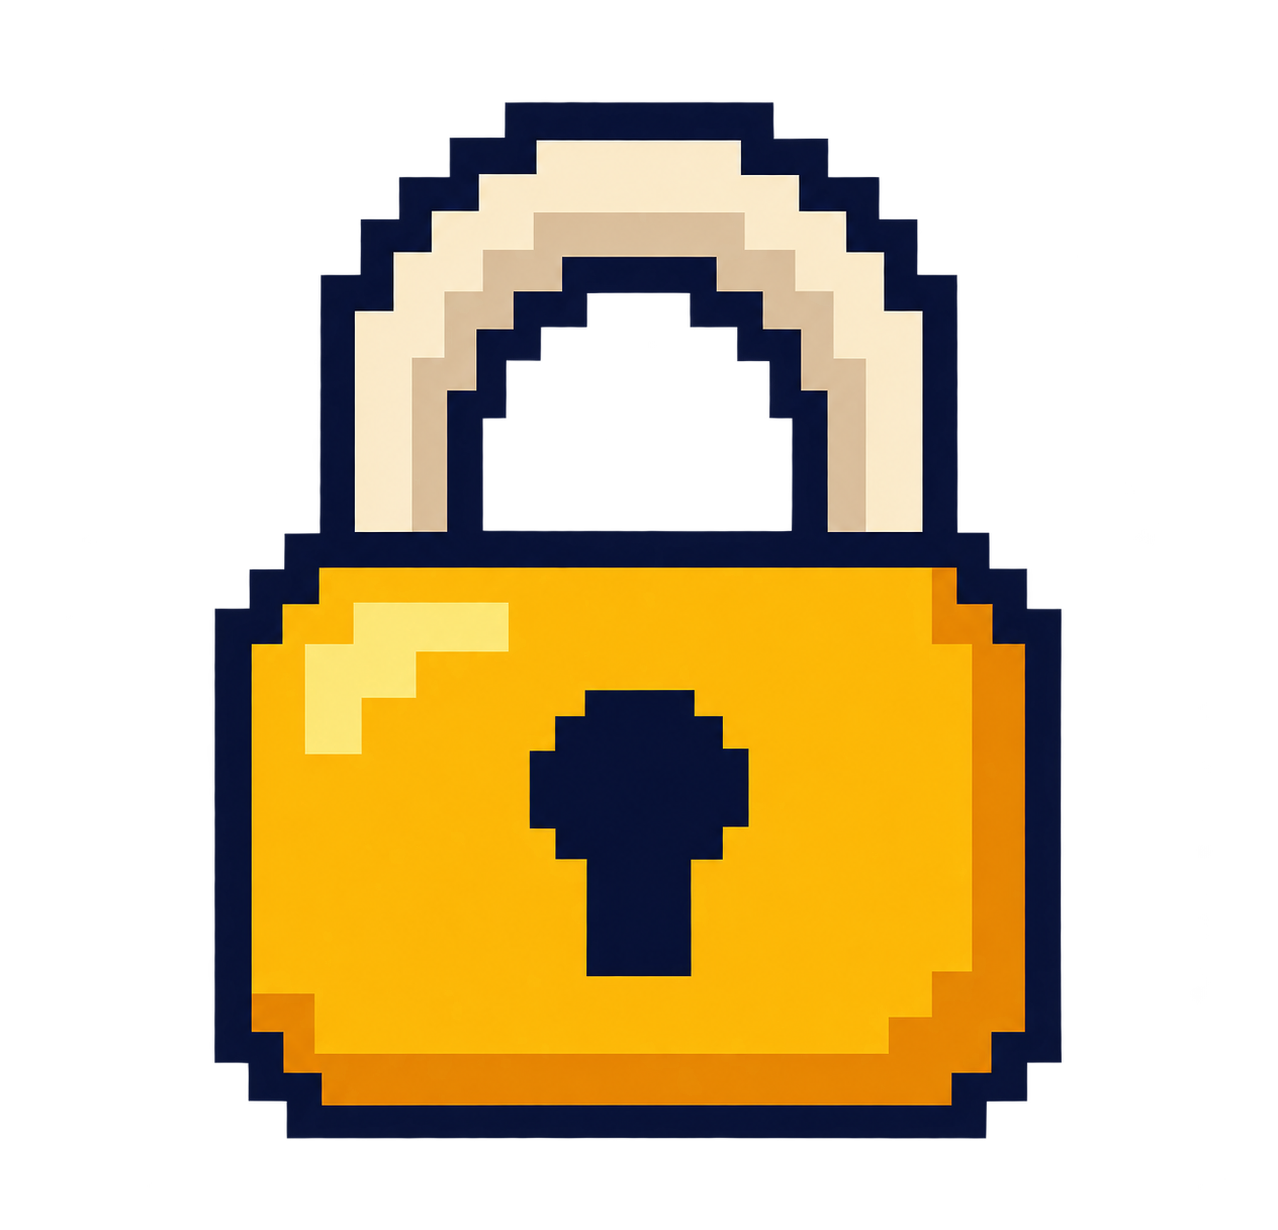
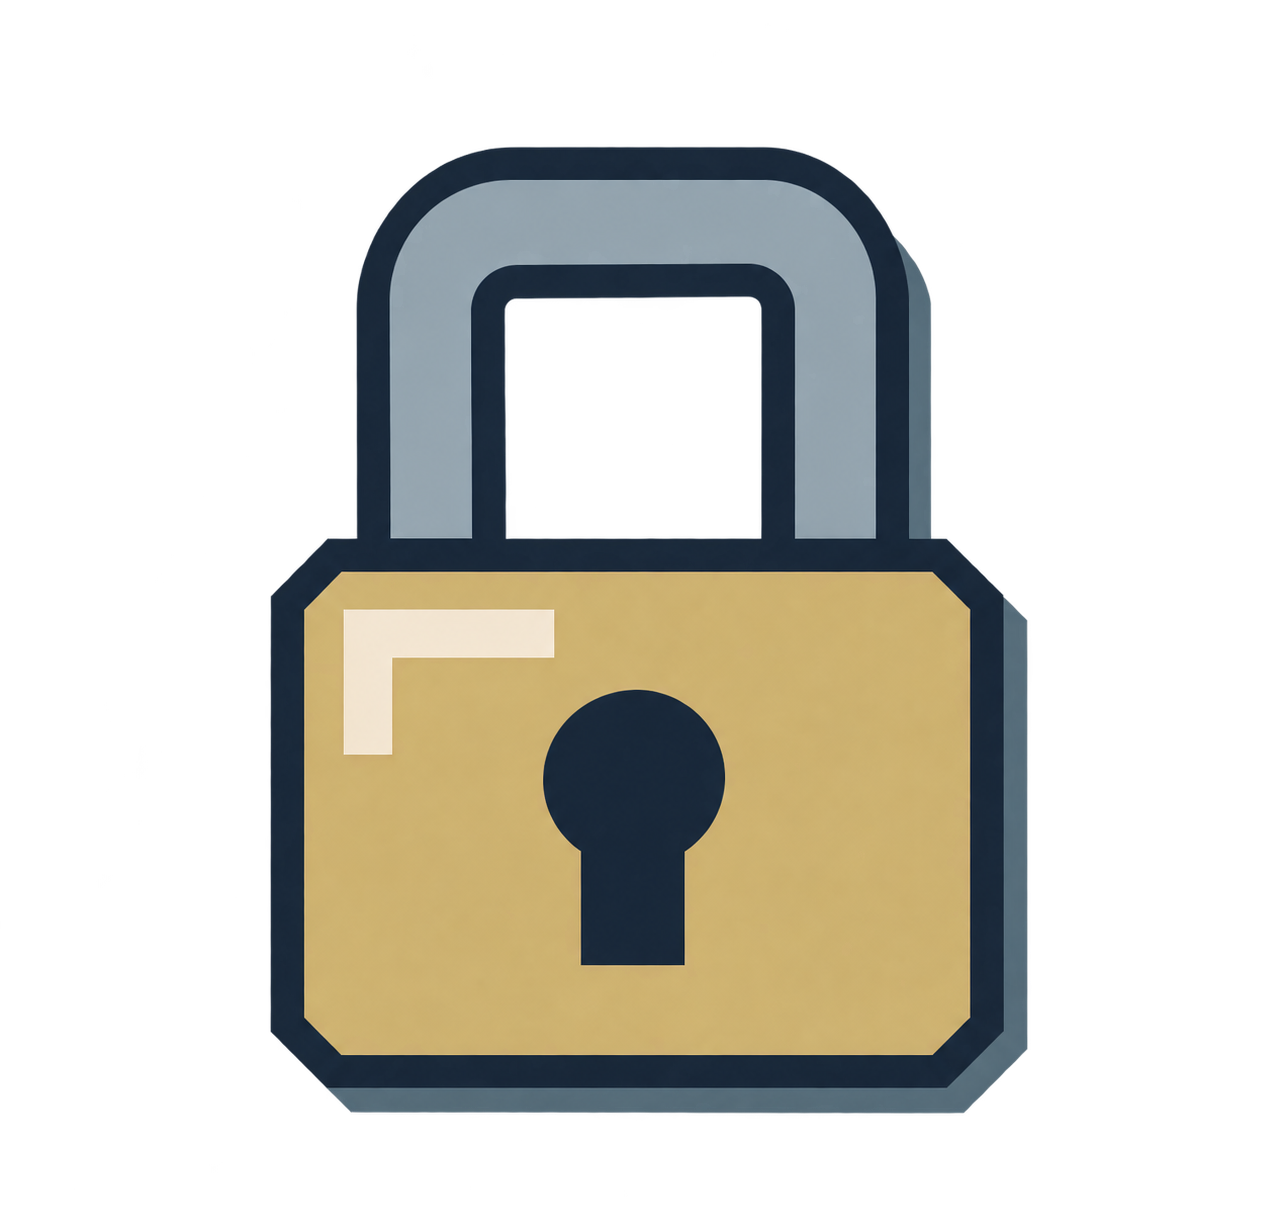
Restyle the lock to match the muted Break Room palette

diff --git a/membership.js b/membership.js
@@ -13,7 +13,7 @@
    const panel=doc.getElementById(game==='lowball'?'lowball-mode-panel':'game-panel');if(!panel||!unlimited||!daily)return;
    const tabs=[daily,unlimited].map(tab=>({tab,selected:tab.getAttribute('aria-selected'),index:tab.tabIndex,className:tab.className}));
    const card=doc.createElement('section');card.className='membership-lock';card.setAttribute('aria-labelledby','membership-lock-title');
-   const artwork=doc.createElement('img');artwork.className='membership-lock-art';artwork.src=new URL('assets/ui/unlimited-lock.png',base).href;artwork.alt='';artwork.width=96;artwork.height=96;
+   const artwork=doc.createElement('img');artwork.className='membership-lock-art';artwork.src=new URL('assets/ui/unlimited-lock.png?v=muted-20261113',base).href;artwork.alt='';artwork.width=96;artwork.height=96;
    const title=doc.createElement('h2');title.id='membership-lock-title';title.textContent='Unlimited is locked';
    const text=doc.createElement('p');text.id='membership-lock-text';text.setAttribute('role','status');
    const link=doc.createElement('a');link.href=new URL('pricing.html',base).href;link.target='_top';link.textContent='View plans';
